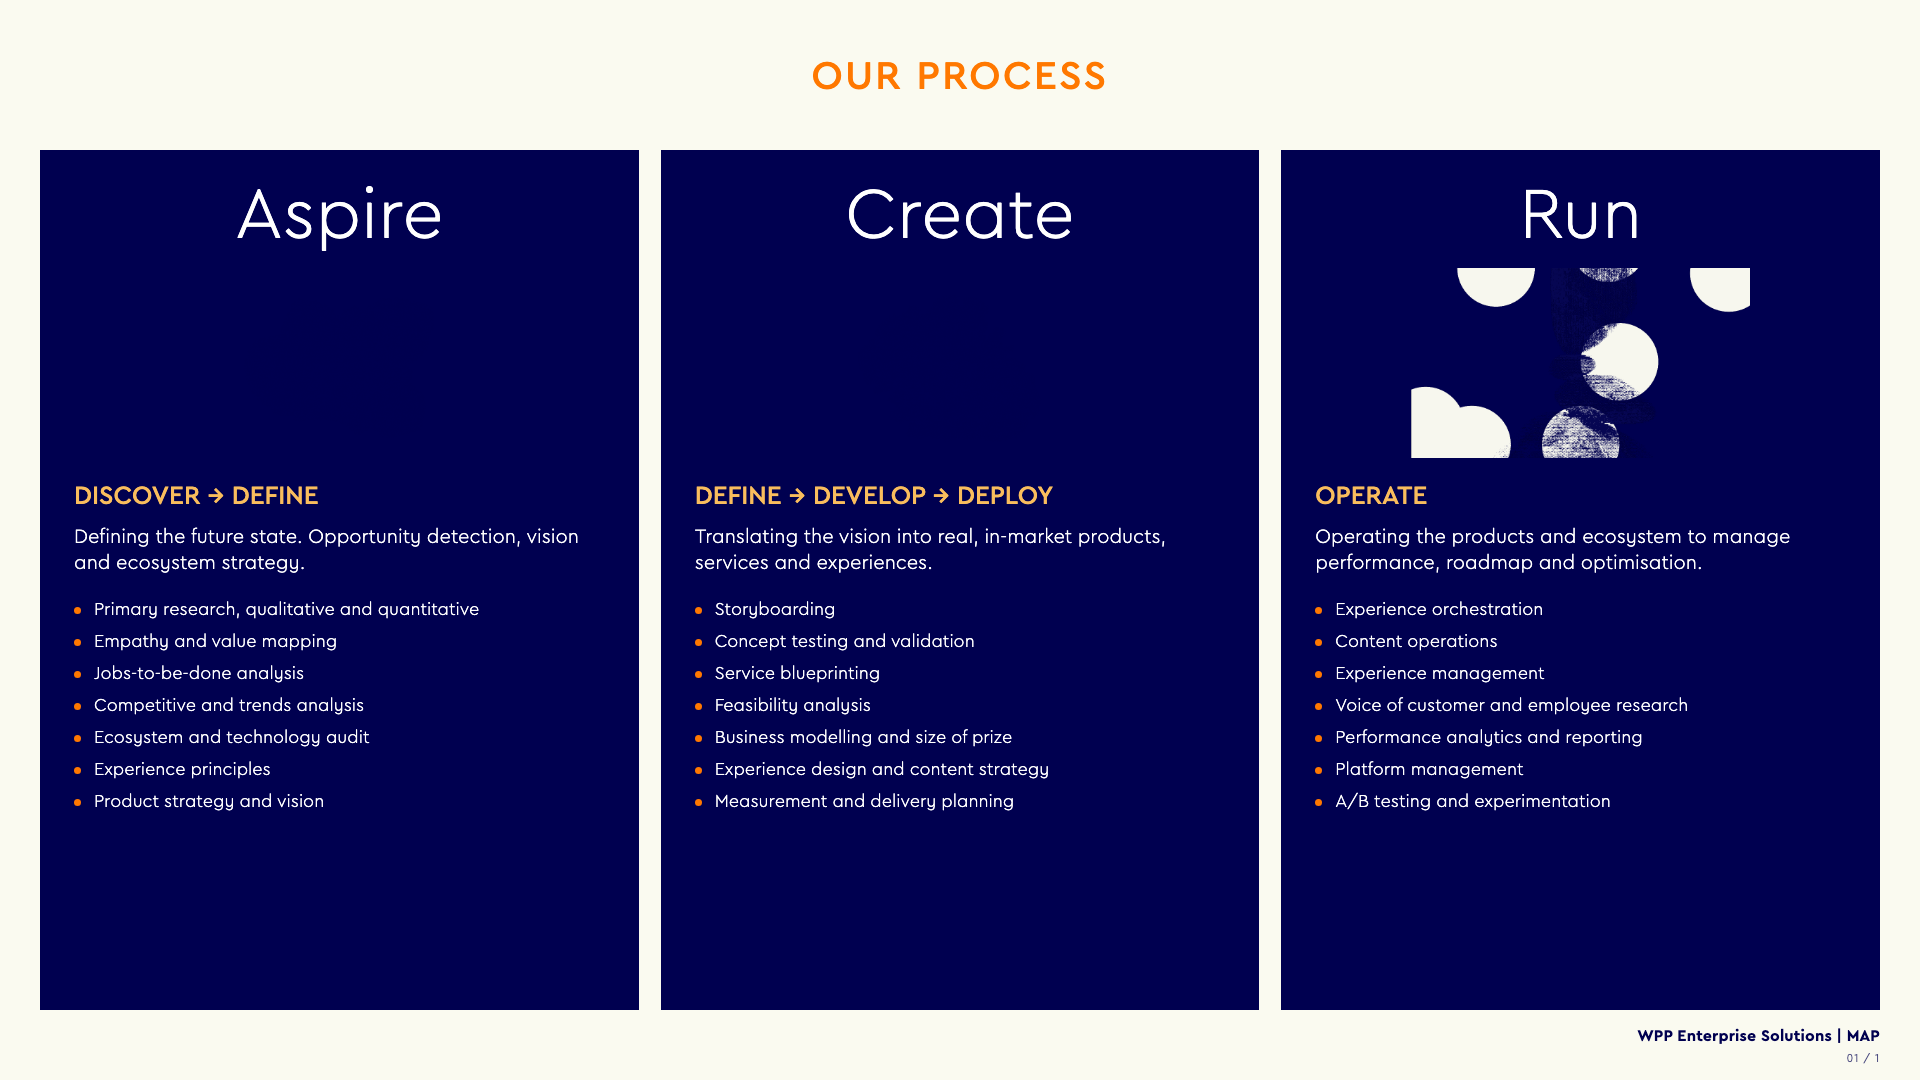
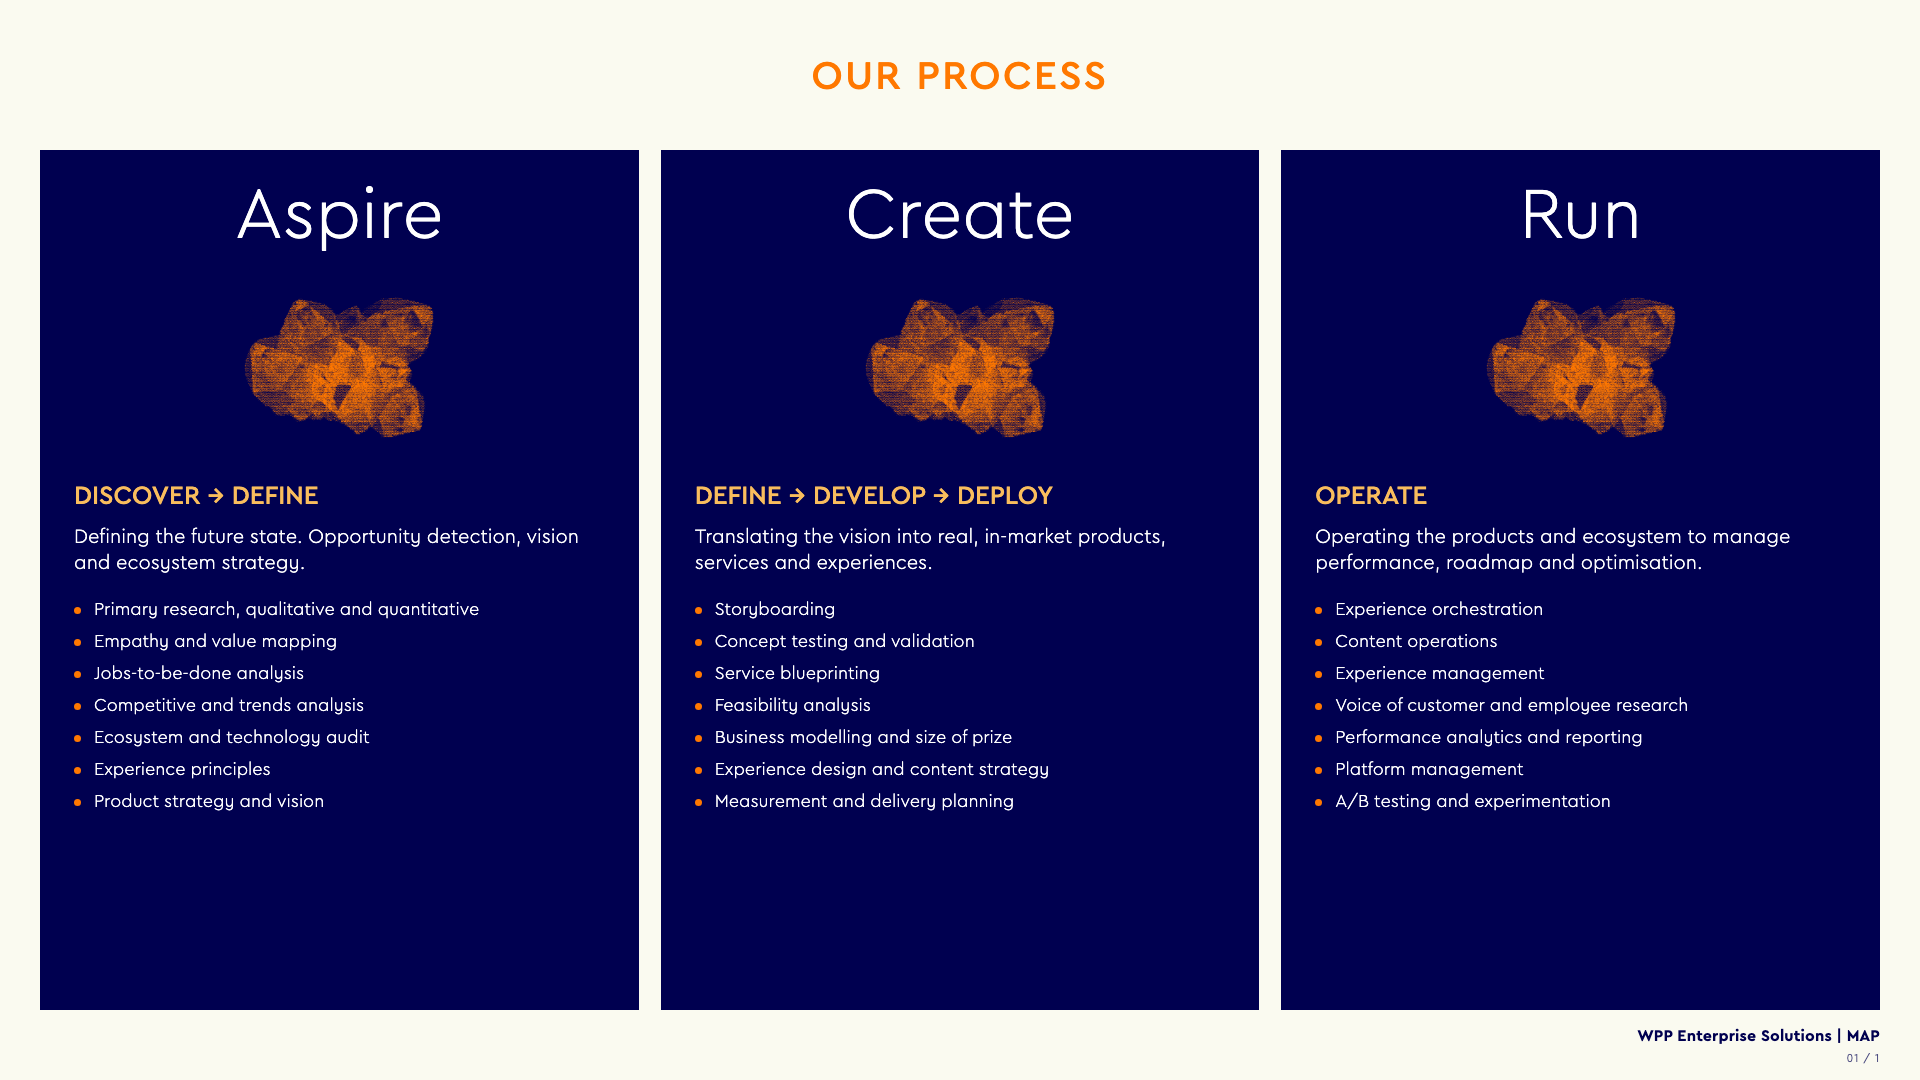
Approve the canon, and fix what the review found
Read all 25 templates side by side against their ref.png. Twenty-four held.
seq-phase-panels-3 did not, and the way it failed is worth recording.

Its three navy panels asked for crystal / coral / rocks. The halftone
illustrations are single-colour ink on transparency, so the navy colourway is
0,0,64 — invisible on a navy panel. Two panels rendered nothing. The third
rendered wrong for a different reason: rocks, rocks-orange, ribbon-orange and
ribbon-navy are the four 964x540 EMF-sourced files, and all of them carry a
BAKED OPAQUE CREAM FIELD instead of clean transparency, so off cream they print
their own background as pale wedges.

The guideline already said most of this — the table calls those four "+ cream"
and the rules say navy motifs never go on navy. The template ignored it. But
one sentence above that table was simply false ("All have transparent grounds"),
so it is corrected: the nine large files are transparent, the four small ones
are cream-ground-only.

Nothing caught it. verify_deck's motif routing only matches the kit's .motif
hosts, and the geometry probe skips elements with no text and no position — a
motif host is both. An invisible illustration renders a slide that looks fine
and empty, which is the failure mode that ships.

The fix is one motif family repeated across the three panels, because the
package leaves no alternative: mountain-orange and peaks-orange are full-bleed
[…]

Changed region(s): [[0.7188, 0.2444, 0.9375, 0.4278], [0.4375, 0.275, 0.5625, 0.4278], [0.125, 0.275, 0.25, 0.4278]]

diff --git a/wpp-es-html-deck/canon/seq-phase-panels-3/template.html b/wpp-es-html-deck/canon/seq-phase-panels-3/template.html
@@ -19,8 +19,28 @@
      illustration in each panel. The slot takes a motif; a template that demanded
      three custom illustrations would be unusable in any deck but this one.
 
-     FIXED FROM THE SOURCE: in the Create panel, "Storyboarding" prints straight
-     through the description above it.
+     THE MOTIF IS ONE FAMILY, REPEATED, AND THE PACKAGE LEAVES NO CHOICE.
+     Two constraints meet here. First, the halftone illustrations are
+     single-colour ink on transparency (§9.1), so the navy colourway is 0,0,64
+     and on a navy panel renders nothing at all. Second, the four 964x540
+     EMF-sourced files — Rocks and Ribbon, both colourways — carry a BAKED
+     OPAQUE CREAM FIELD rather than clean transparency, so on anything but cream
+     they print their own background as pale wedges. The first cut of this
+     template asked for crystal / coral / rocks and produced two empty panels
+     and one wrong one.
+
+     What survives both constraints AND a 190px centred host is a short list:
+     mountain-orange and peaks-orange are full-bleed LANDSCAPE compositions that
+     crop to floating fragments at this size, and dot-dancers-orange is a
+     square-grid conversion (§9.1c) whose texture does not sit beside the
+     hexagonal WPP Open motifs. That leaves crystal-orange and coral-orange —
+     two, for three panels.
+
+     So all three panels carry the same motif, which is what §12 asks for anyway:
+     one motif family per deck, repeated. Three panels running one emblem is a
+     rhythm; the 72px phase name is the differentiator and does not need help.
+     The source's three bespoke illustrations are not reproducible by any deck
+     but its own, and this template never promised them.
 -->
 <section class="slide" data-slide-id="cX-sY" data-archetype="seq-phase-panels" data-template="seq-phase-panels-3">
 
@@ -29,7 +49,7 @@
   <div class="spp-row">
     <div class="spp-panel">
       <div class="spp-name">Aspire</div>
-      <div class="spp-art" data-motif="crystal" aria-hidden="true"></div>
+      <div class="spp-art" data-motif="crystal-orange" aria-hidden="true"></div>
       <div class="spp-arc">Discover &rarr; define</div>
       <p class="spp-lede">Defining the future state. Opportunity detection, vision and ecosystem strategy.</p>
       <ul class="spp-list">
@@ -45,7 +65,7 @@
 
     <div class="spp-panel">
       <div class="spp-name">Create</div>
-      <div class="spp-art" data-motif="coral" aria-hidden="true"></div>
+      <div class="spp-art" data-motif="crystal-orange" aria-hidden="true"></div>
       <div class="spp-arc">Define &rarr; develop &rarr; deploy</div>
       <p class="spp-lede">Translating the vision into real, in-market products, services and experiences.</p>
       <ul class="spp-list">
@@ -61,7 +81,7 @@
 
     <div class="spp-panel">
       <div class="spp-name">Run</div>
-      <div class="spp-art" data-motif="rocks" aria-hidden="true"></div>
+      <div class="spp-art" data-motif="crystal-orange" aria-hidden="true"></div>
       <div class="spp-arc">Operate</div>
       <p class="spp-lede">Operating the products and ecosystem to manage performance, roadmap and optimisation.</p>
       <ul class="spp-list">
@@ -100,6 +120,9 @@
      chapter and the list is what happens inside. */
   .spp-name{font-weight:300;font-size:72px;line-height:1;text-align:center;
             margin-bottom:16px;}
+  /* Orange colourway only, and one family across all three — see the header.
+     Navy ink on a navy panel renders nothing, and the 964x540 motifs bake in
+     their own cream field. */
   .spp-art{height:190px;display:flex;align-items:center;justify-content:center;
            margin-bottom:24px;overflow:hidden;}
   .spp-art img{max-height:100%;max-width:70%;object-fit:contain;display:block;}

diff --git a/wpp-es-html-deck/canon/_tools/build_catalog.py b/wpp-es-html-deck/canon/_tools/build_catalog.py
@@ -66,8 +66,12 @@ def render_md(metas):
         "source slide and `preview.png` is what this template renders; if a fill looks",
         "wrong, compare the two before changing the template.",
         "",
-        "`?` in the approved column means the spec has not been read against its ref by",
-        "a human yet. Usable, but not yet authoritative.",
+        "`yes` in the ok column means the template was reviewed side by side against",
+        "its ref.png and passed the gates — a MACHINE approval, recorded in the spec's",
+        "`approvedBy`. No human has signed these off against the bank. Read each spec's",
+        "`approvalNote` before a client deck: eleven carry caveats, mostly placeholder",
+        "art standing in for logos, headshots and client screenshots. `?` means not even",
+        "that much.",
         "",
     ]
     by_fam = {}

diff --git a/wpp-es-html-deck/canon/CATALOG.md b/wpp-es-html-deck/canon/CATALOG.md
@@ -11,73 +11,77 @@ Open `canon/<id>/template.html` and paste the `<section>`. Its `ref.png` is the
 source slide and `preview.png` is what this template renders; if a fill looks
 wrong, compare the two before changing the template.
 
-`?` in the approved column means the spec has not been read against its ref by
-a human yet. Usable, but not yet authoritative.
+`yes` in the ok column means the template was reviewed side by side against
+its ref.png and passed the gates — a MACHINE approval, recorded in the spec's
+`approvedBy`. No human has signed these off against the bank. Read each spec's
+`approvalNote` before a client deck: eleven carry caveats, mostly placeholder
+art standing in for logos, headshots and client screenshots. `?` means not even
+that much.
 
 ## A-narrative
 
 | id | use when | arity | density | media | ok |
 |---|---|---|---|---|---|
-| `narrative-panel-model` | A position needing three or four hundred words, with the model it rests on visible alongside. | 6 | dense | motif | ? |
-| `narrative-statement-field` | One sentence marking the turn between two arguments. A breath, not a point. | 1 | airy | motif | ? |
-| `narrative-tension-spectrum` | Tensions rather than choices — and the evidence to say WHERE something sits between two poles. | 5 | dense | photo | ? |
+| `narrative-panel-model` | A position needing three or four hundred words, with the model it rests on visible alongside. | 6 | dense | motif | yes |
+| `narrative-statement-field` | One sentence marking the turn between two arguments. A breath, not a point. | 1 | airy | motif | yes |
+| `narrative-tension-spectrum` | Tensions rather than choices — and the evidence to say WHERE something sits between two poles. | 5 | dense | photo | yes |
 
 ## B-enumeration
 
 | id | use when | arity | density | media | ok |
 |---|---|---|---|---|---|
-| `enum-index-2col` | Ten to sixteen offerings have to be seen as a whole, where the breadth is the point rather than any one item. | 16 | standard | none | ? |
-| `enum-intro-grid-5` | One principle, then four to six named instances of it — and the principle needs more room than any instance. | 5 | dense | none | ? |
-| `enum-numbered-4` | Three or four named stages, each needing a sentence of substance rather than a label. | 3 | standard | none | ? |
-| `enum-stage-bento-4` | Four stages of a transformation, each with a screenshot of what was built and what changed. | 4 | standard | screenshot | ? |
-| `enum-tier-columns-3` | The same problem appears at three levels of maturity, and each level has a client quote that proves it. | 3 | dense | none | ? |
+| `enum-index-2col` | Ten to sixteen offerings have to be seen as a whole, where the breadth is the point rather than any one item. | 16 | standard | none | yes |
+| `enum-intro-grid-5` | One principle, then four to six named instances of it — and the principle needs more room than any instance. | 5 | dense | none | yes |
+| `enum-numbered-4` | Three or four named stages, each needing a sentence of substance rather than a label. | 3 | standard | none | yes |
+| `enum-stage-bento-4` | Four stages of a transformation, each with a screenshot of what was built and what changed. | 4 | standard | screenshot | yes |
+| `enum-tier-columns-3` | The same problem appears at three levels of maturity, and each level has a client quote that proves it. | 3 | dense | none | yes |
 
 ## C-sequence
 
 | id | use when | arity | density | media | ok |
 |---|---|---|---|---|---|
-| `seq-phase-columns-4` | Three or four phases with long activity lists, and it matters which phase the client is in now. | 4 | dense | none | ? |
-| `seq-phase-panels-3` | Work runs in three named phases with different characters, and each deserves the weight of a full-height panel. | 3 | dense | motif | ? |
-| `seq-steps-panels-5` | A method of four or five stages where each stage has real activities and deliverables to name. | 5 | dense | none | ? |
+| `seq-phase-columns-4` | Three or four phases with long activity lists, and it matters which phase the client is in now. | 4 | dense | none | yes |
+| `seq-phase-panels-3` | Work runs in three named phases with different characters, and each deserves the weight of a full-height panel. | 3 | dense | motif | yes |
+| `seq-steps-panels-5` | A method of four or five stages where each stage has real activities and deliverables to name. | 5 | dense | none | yes |
 
 ## D-quantitative
 
 | id | use when | arity | density | media | ok |
 |---|---|---|---|---|---|
-| `quant-score-circles` | Three or four scores on a common scale, shown as derived from named inputs rather than asserted. | 4 | dense | none | ? |
-| `quant-stat-grid-5` | A claim needing five pieces of quantitative proof, where the claim is what the room should leave with. | 5 | standard | none | ? |
+| `quant-score-circles` | Three or four scores on a common scale, shown as derived from named inputs rather than asserted. | 4 | dense | none | yes |
+| `quant-stat-grid-5` | A claim needing five pieces of quantitative proof, where the claim is what the room should leave with. | 5 | standard | none | yes |
 
 ## E-comparison
 
 | id | use when | arity | density | media | ok |
 |---|---|---|---|---|---|
-| `comp-priority-grid` | Fifteen to twenty-five candidates where the scoring is a judgement and the bands are what gets argued about. | 9 | dense | none | ? |
-| `comp-priority-scatter` | Ten to thirty-five candidates to prioritise, where relative position matters more than which box they fall in. | n | dense | none | ? |
+| `comp-priority-grid` | Fifteen to twenty-five candidates where the scoring is a judgement and the bands are what gets argued about. | 9 | dense | none | yes |
+| `comp-priority-scatter` | Ten to thirty-five candidates to prioritise, where relative position matters more than which box they fall in. | n | dense | none | yes |
 
 ## F-relational
 
 | id | use when | arity | density | media | ok |
 |---|---|---|---|---|---|
-| `rel-hub-rings-4` | Four capabilities that live INSIDE one system rather than beside each other, with prose to land the claim. | 4 | standard | motif | ? |
-| `rel-layered-stack` | An offer with stacked layers, where one layer is plainly where all the substance lives. | 5 | dense | none | ? |
-| `rel-stage-split` | What the client sees and what runs underneath, shown as one system rather than two. | 10 | standard | none | ? |
-| `rel-taxonomy-bands` | Three to five named classes that between them exhaust a space. | 4 | standard | motif | ? |
+| `rel-hub-rings-4` | Four capabilities that live INSIDE one system rather than beside each other, with prose to land the claim. | 4 | standard | motif | yes |
+| `rel-layered-stack` | An offer with stacked layers, where one layer is plainly where all the substance lives. | 5 | dense | none | yes |
+| `rel-stage-split` | What the client sees and what runs underneath, shown as one system rather than two. | 10 | standard | none | yes |
+| `rel-taxonomy-bands` | Three to five named classes that between them exhaust a space. | 4 | standard | motif | yes |
 
 ## G-media
 
 | id | use when | arity | density | media | ok |
 |---|---|---|---|---|---|
-| `media-annotated-callouts-4` | A screenshot, diagram or dashboard has to be EXPLAINED — the audience needs telling what to look at and in what order. | 4 | standard | screenshot | ? |
-| `media-bleed-steps-4` | Three to five named moves in order, where the subject deserves a full-height image. | 4 | airy | photo | ? |
-| `media-rail-cases-3` | A repeatable process produced three concrete examples with a measurable outcome, and the point is that the cases came from the process. | 3 | dense | screenshot | ? |
+| `media-annotated-callouts-4` | A screenshot, diagram or dashboard has to be EXPLAINED — the audience needs telling what to look at and in what order. | 4 | standard | screenshot | yes |
+| `media-bleed-steps-4` | Three to five named moves in order, where the subject deserves a full-height image. | 4 | airy | photo | yes |
+| `media-rail-cases-3` | A repeatable process produced three concrete examples with a measurable outcome, and the point is that the cases came from the process. | 3 | dense | screenshot | yes |
 
 ## H-entities
 
 | id | use when | arity | density | media | ok |
 |---|---|---|---|---|---|
-| `ent-logo-rows-6` | A partner roster where which category a logo sits in matters as much as its being there. | 6 | standard | logo | ? |
-| `ent-partner-credentials-3` | Two or three partnerships, each with its own proof and client roster, all of them strong. | 3 | dense | logo | ? |
-| `ent-team-row-6` | Four to six people placed by role and location at the top of a meeting. Not biographies. | 6 | standard | photo | ? |
+| `ent-logo-rows-6` | A partner roster where which category a logo sits in matters as much as its being there. | 6 | standard | logo | yes |
+| `ent-partner-credentials-3` | Two or three partnerships, each with its own proof and client roster, all of them strong. | 3 | dense | logo | yes |
+| `ent-team-row-6` | Four to six people placed by role and location at the top of a meeting. Not biographies. | 6 | standard | photo | yes |
 
 ---
 

diff --git a/wpp-es-html-deck/references/sections/9-illustration-photography.md b/wpp-es-html-deck/references/sections/9-illustration-photography.md
@@ -10,7 +10,7 @@
 
 ### 9.1a Illustration inventory (as shipped — `assets/illustrations/`)
 
-Exactly **thirteen** files ship (eleven WPP Open motifs + two v4 square-grid conversions). All have transparent grounds so the Cream field shows through.
+Exactly **thirteen** files ship (eleven WPP Open motifs + two v4 square-grid conversions). The nine 1920px-class and v4 files have **fully transparent grounds** so the Cream field shows through. The four 964×540 EMF-sourced files — **Rocks and Ribbon, both colourways** — do not: they carry a **baked opaque cream field** around the ink. That is what the "+ cream" in their Colourway column means. They are therefore **cream-ground-only**: on Navy, on a tinted panel or over a photo they print their own background as pale wedges. Navy ink disappearing on Navy is the failure everyone expects; this is the one that gets shipped, because the slide looks populated.
 
 | File | Pixels | Colourway | Display rules |
 |---|---|---|---|
